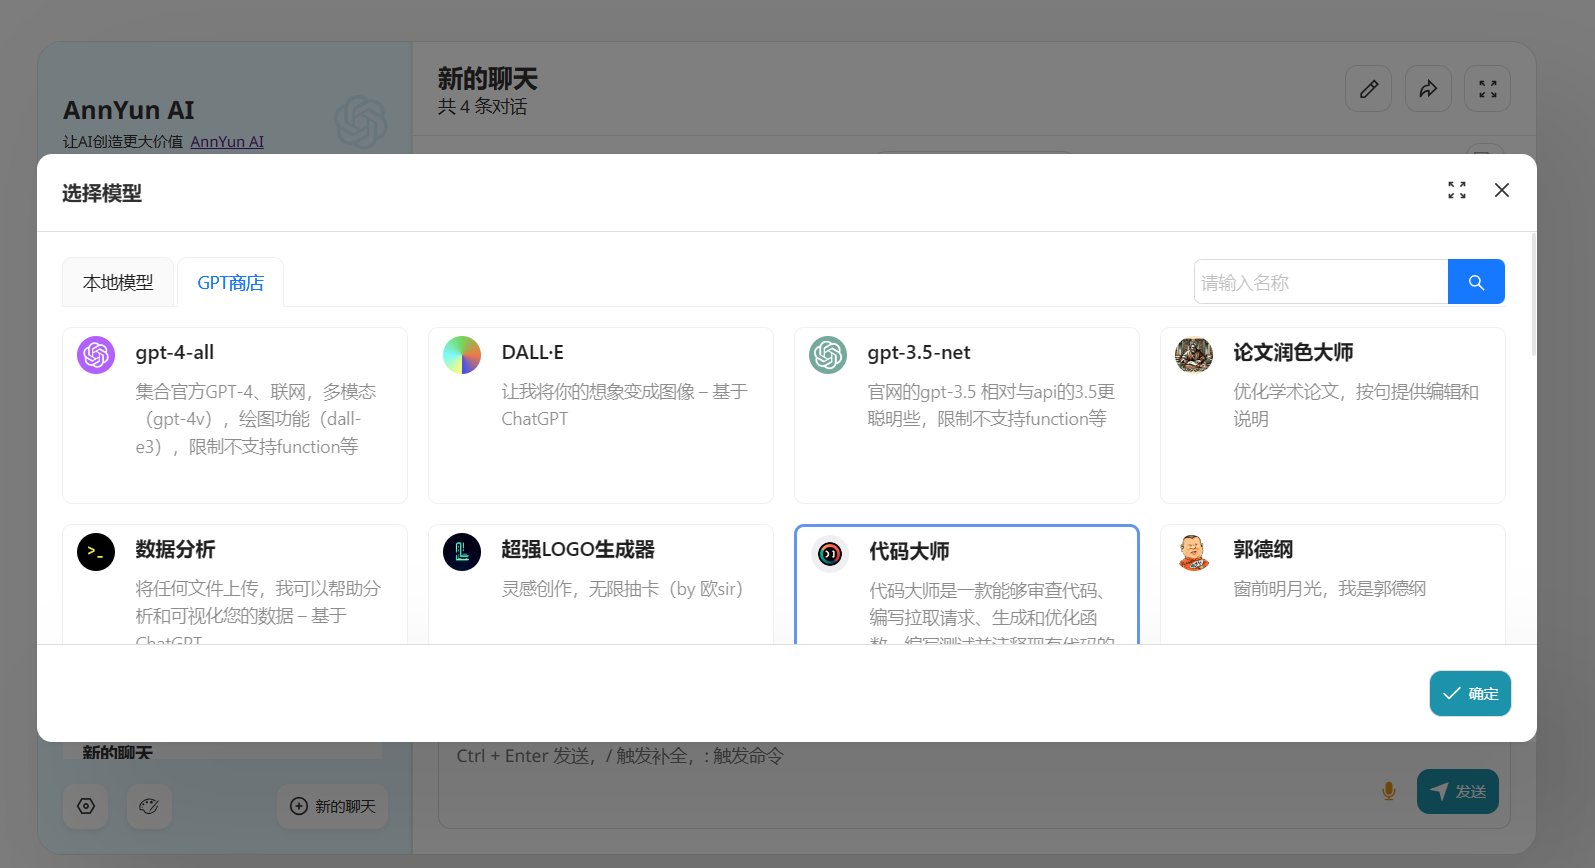
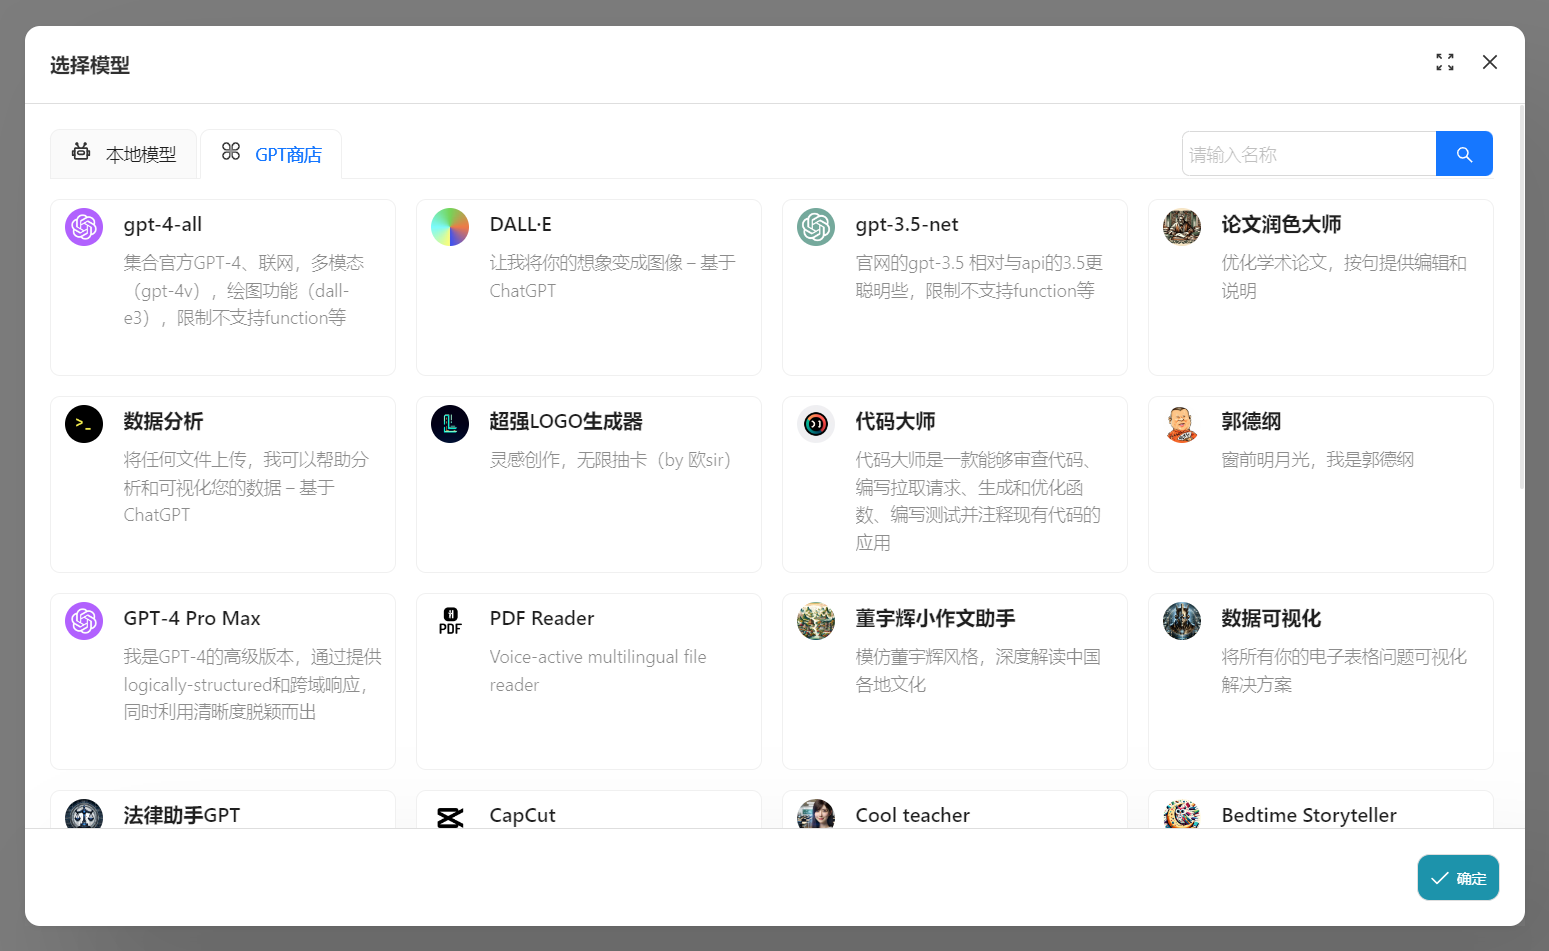
1.增加参数控制gpts显示隐藏，HIDE_GPTS=1 时隐藏gpts。 2.修复选择gpts后，会存入本地模型的问题。 3.优化gpts弹窗显示。

diff --git a/README.md b/README.md
@@ -1,6 +1,6 @@
 ### 版本
 #### 无后端：
-- 版本号：3.7.0，更新日期：2024.01.29，（arm64版本号：3.6.7-arm）
+- 版本号：3.7.1，更新日期：2024.01.31，（arm64版本号：3.7.1-arm）
 
 ### 特性（无后端版本）：
 - 1.完整的[ChatGPT-Next-Web](https://github.com/ChatGPTNextWeb/ChatGPT-Next-Web)功能，并保持同步更新。最近同步时间：2024.01.29
@@ -30,7 +30,7 @@
 - 25.增加**语音输入**功能，通过录音，发送给openai进行语音转文字，填到输入框里。该功能需要https访问，才能调起浏览器语音权限。启动参数 HIDE_VOICE_INPUT=1，则会隐藏语音输入
 - 26.增加参数REPLACE_MJURL_WITH_BASEURL，当设成1时，如果用户和启动参数都没填mj的接口地址和密钥，则自动使用base_url和openai_api_key当作mj的接口地址和密钥。
 - 27.增加**支持gemini-pro-vision上传图片**。
-- 28.增加**GPTs商店**，一些gpts应用需要你接口支持，大部分可以在官方接口使用。
+- 28.增加**GPTs商店**，一些gpts应用官方接口不支持，需要购买中转接口，增加HIDE_GPTS=，如果需要隐藏gpts，则设为1。
 
 ### 特性（有后端版本）：
 - 1.包含无后端版本的完整功能。
@@ -87,6 +87,7 @@
 | CUSTOM_MODELS               | 否  | 自定义模型参数，基于原版参数拓展，兼容原版功能。通过自定义模型名称对应fastgpt里的应用，及对应key，格式：+知识库名称==知识库对应apikey，例如：CUSTOM_MODELS=+知识库1==fastgpt-xxxxxx，只会把知识库名称传到前端，apikey不会传到用户端，只会在服务端，可以放心。                                                                                           |
 | INPUT_PLACEHOLDER           | 否  | 自定义输入框提示。                                                                                                                                                                                                                                             |
 | HIDE_VOICE_INPUT            | 否  | 如果需要屏蔽语音输入，则把该参数设成1。                                                                                                                                                                                                                                  |
+| HIDE_GPTS                   | 否  | 如果需要隐藏GPTS，则把该参数设成1。                                                                                                                                                                                                                                  |
 
 ### 需要准备什么
 - 1.若干个二级域名，本应用需要一个，另外代理discord，openai，aliyun-oss等，都需要域名
@@ -101,14 +102,14 @@
 ### 启动
 ##### 1.拉取镜像
 ```shell
-docker pull registry.cn-hangzhou.aliyuncs.com/ann-chat/chatgpt-next-web-pro:3.7.0
+docker pull registry.cn-hangzhou.aliyuncs.com/ann-chat/chatgpt-next-web-pro:3.7.1
 ```
 ##### 2.启动应用
 ```shell
 docker run -d -p 3000:3000 \
   -e OPENAI_API_KEY="sk-xxxxxx" \
   -e AUTHORIZE_CODE="授权码" \
-  registry.cn-hangzhou.aliyuncs.com/ann-chat/chatgpt-next-web-pro:3.7.0
+  registry.cn-hangzhou.aliyuncs.com/ann-chat/chatgpt-next-web-pro:3.7.1
 ```
 - 3000:3000是端口映射，前面的可以自定义，后面的是容器内部端口，不可更改。比如可以改成：3030:3000, 3080:3000
 - 如果你有chatgpt中转地址，则加上 -e BASE_URL="https://xxxxxx" \  ，没加这个参数，默认请求到 https://api.openai.com
